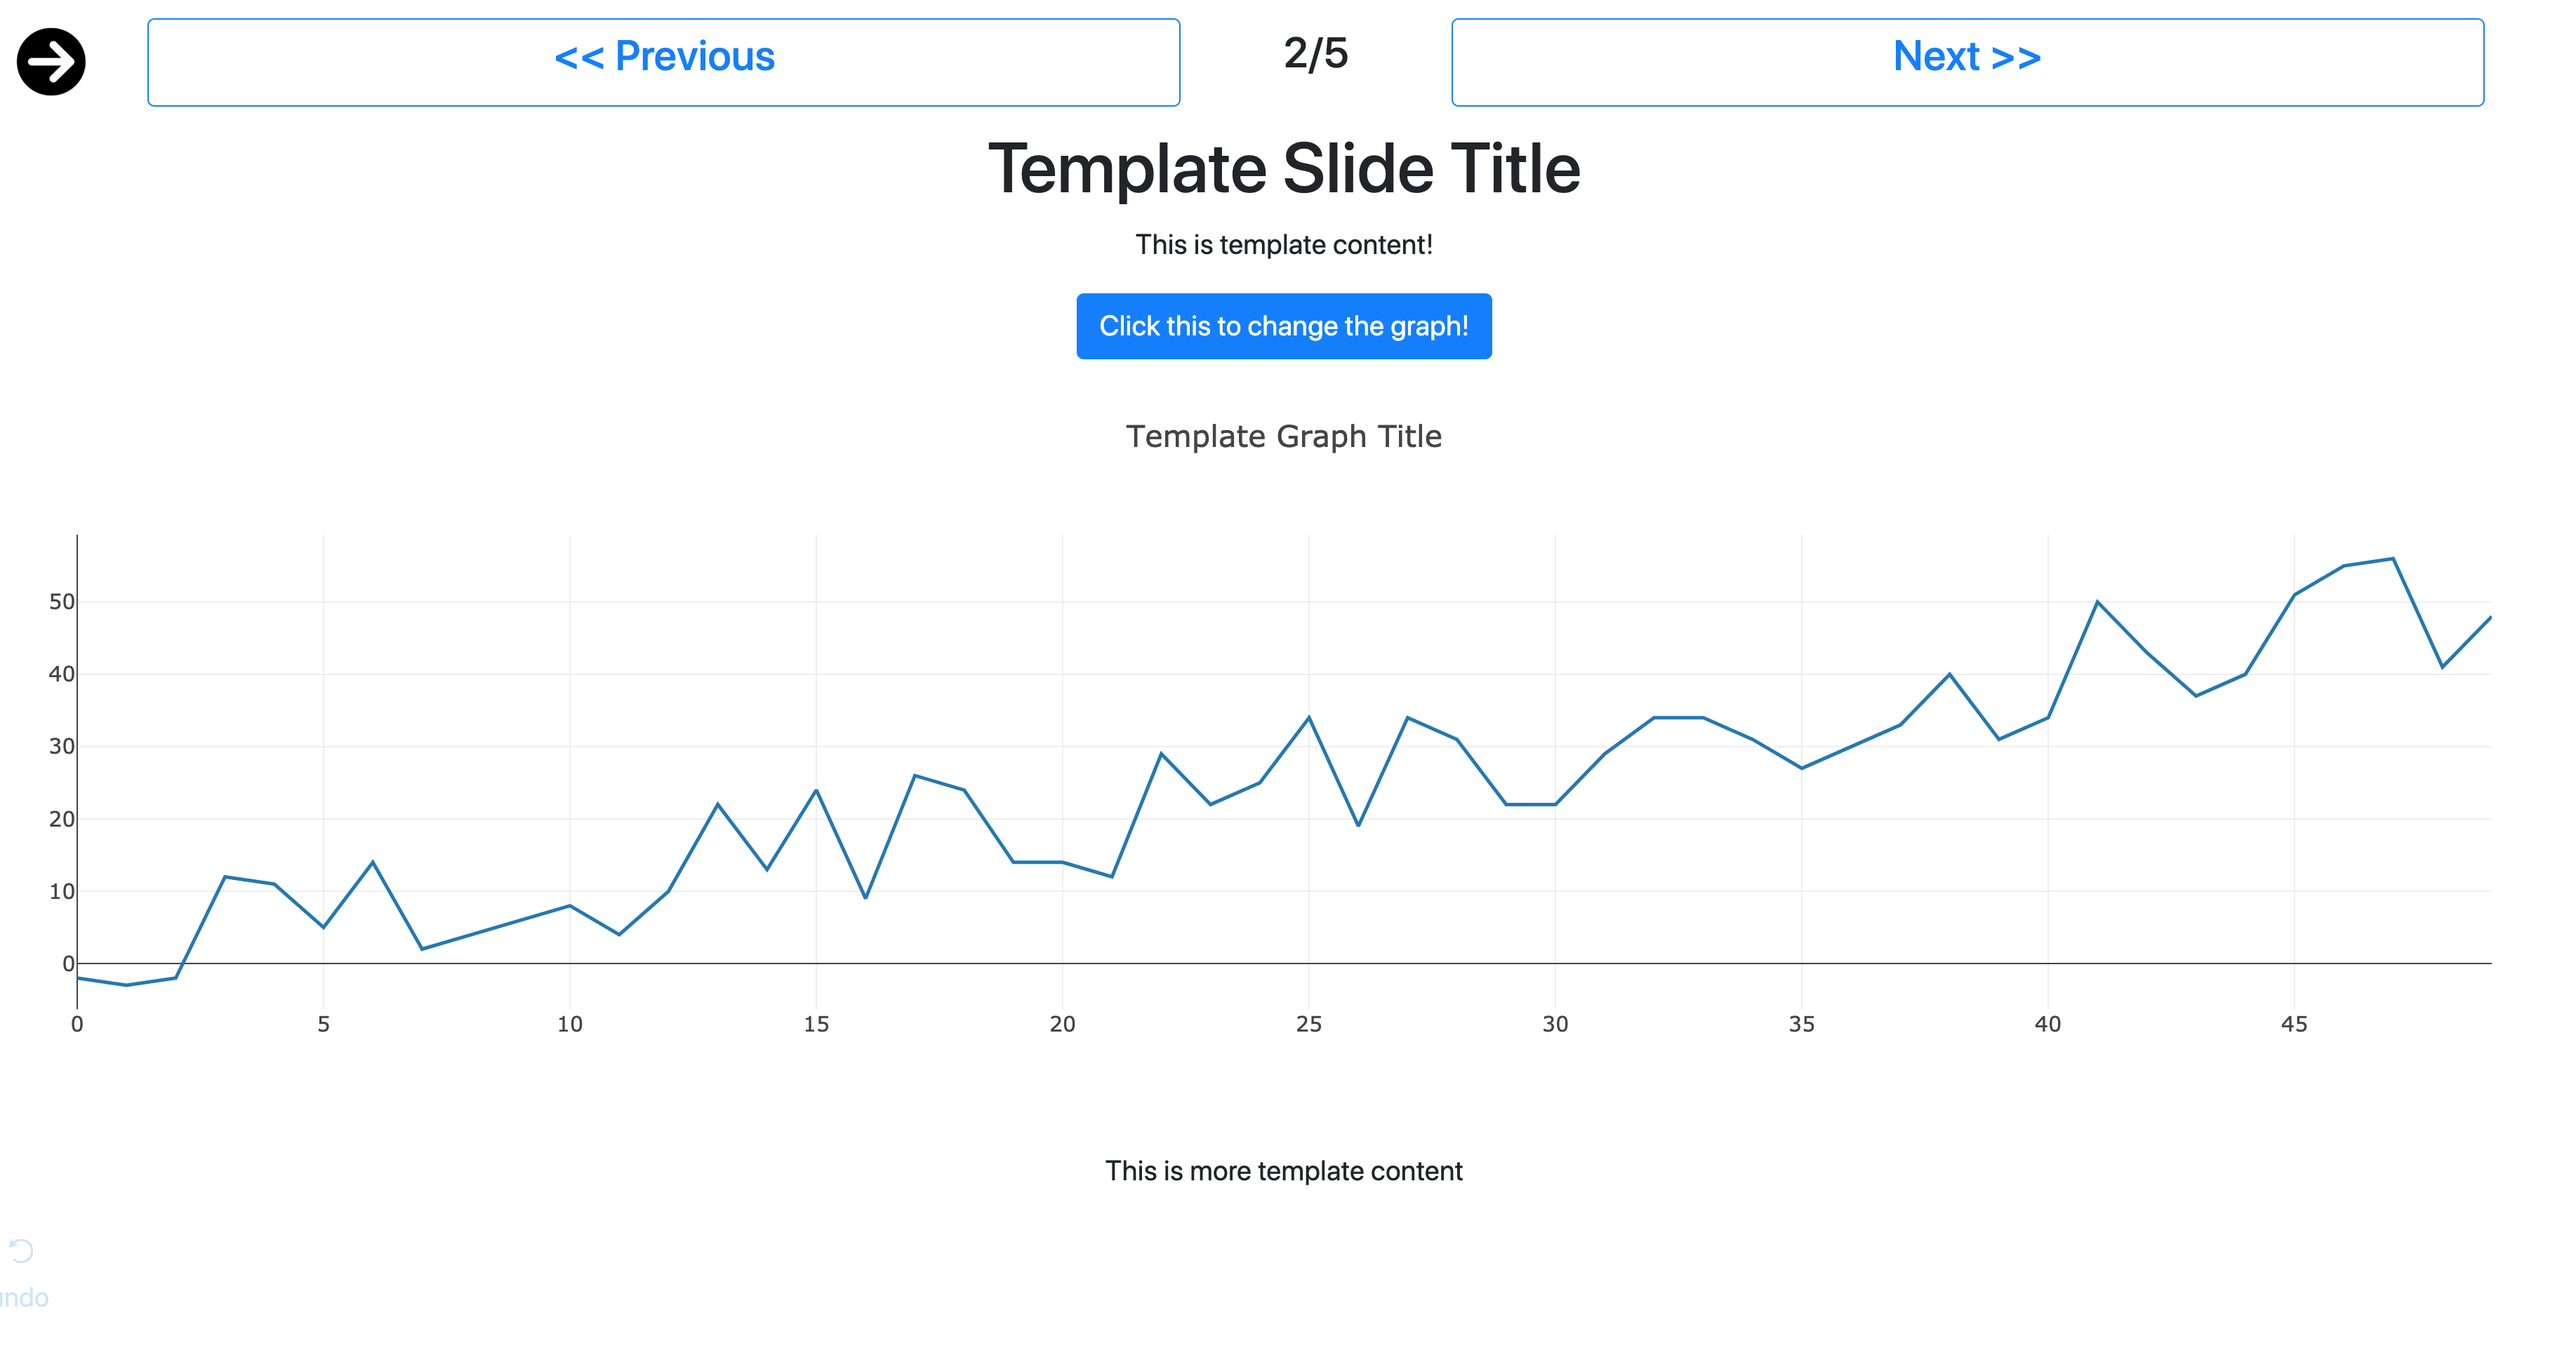
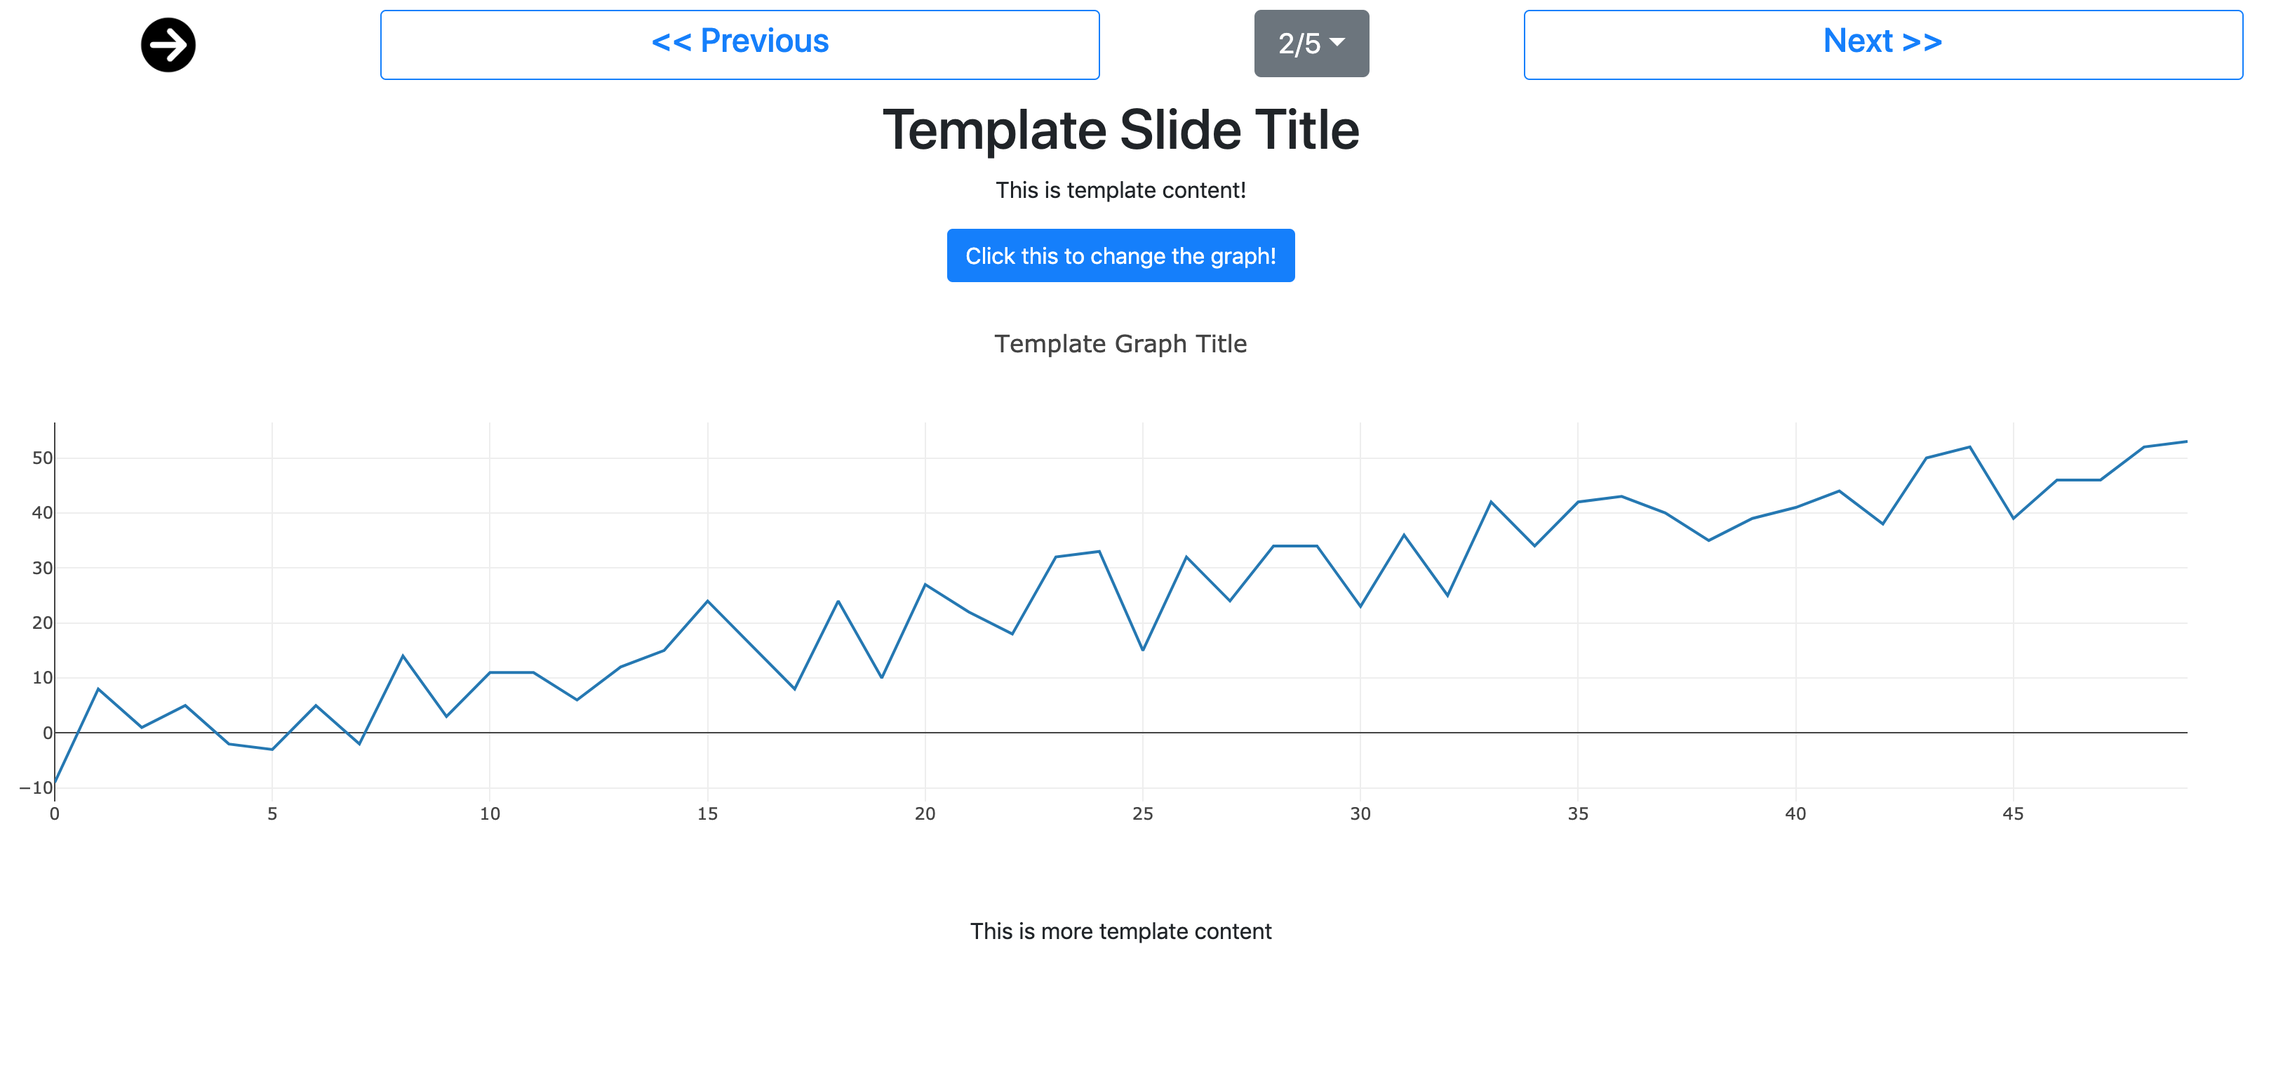
choose a slide feature added

diff --git a/example/index.py b/example/index.py
@@ -44,7 +44,10 @@ def get_logo():
     for i,x in enumerate(split_assets):
         if x=='logo':
             return html.Img(src='assets/'+assets[i],style=dict(height='50px'))
-    return html.Img(height='40px',src='https://github.com/russellromney/dash-slides/assets/raw/logo.png')
+    return html.A(
+        html.Img(height='40px',src='https://github.com/russellromney/dash-slides/assets/raw/logo.png'),
+        href='/'+slide_order[0]
+    )
 
 
 
@@ -58,10 +61,12 @@ app.layout = html.Div([
         # nav div
         dbc.Row(style=dict(height='auto',position='sticky',margin='10px'),children=[
             # logo
-            dbc.Col(width=1,style=nav_style,children=get_logo()),
+            dbc.Col(width=2,style=nav_style,children=[
+                get_logo()
+            ]),
             
             # previous
-            dbc.Col(width=5,style=nav_style,children=[
+            dbc.Col(width=4,style=nav_style,children=[
                 dcc.Link(
                     id='previous-link',
                     href='',
@@ -70,12 +75,22 @@ app.layout = html.Div([
             ]), # end previous
             
             # slide count
-            dbc.Col(width=1,style=nav_style,children=[
-                html.H4(id='slide-count',style=dict(paddingTop='5px'))
+            dbc.Col(width=2,style=nav_style,children=[
+                dbc.DropdownMenu(
+                    id='slide-count',
+                    bs_size='lg',
+                    children = [
+                    dbc.DropdownMenuItem(
+                        s,
+                        href='/'+s,
+                        external_link=True
+                    )
+                    for s in slide_order
+                ])
             ]), # end slide count
             
             # next
-            dbc.Col(width=5,style=nav_style,children=[
+            dbc.Col(width=4,style=nav_style,children=[
                 dcc.Link(
                     id='next-link',
                     href='',
@@ -117,6 +132,8 @@ def change_slide(pathname):
 )
 def navigate(current_slide,pathname):
     '''
+    - listens to
+        - next/previous buttons
     - determines the current slide name
     - changes 'next' and 'previous' to the names of the slides on each side of the current slide
     - if this is the last or first slide, 'next' or 'previous' will just refresh the current slide
@@ -154,7 +171,7 @@ def set_slide_state(pathname):
 
 
 @app.callback(
-    Output('slide-count','children'),
+    Output('slide-count','label'),
     [Input('current-slide','children')]
 )
 def update_slide_count(current_slide):
@@ -172,6 +189,6 @@ if __name__=='__main__':
     app.run_server(
         port=8050,
         host = 'localhost',
-#        debug=True,
+        debug=True,
     )
     

diff --git a/index.py b/index.py
@@ -58,10 +58,12 @@ app.layout = html.Div([
         # nav div
         dbc.Row(style=dict(height='auto',position='sticky',margin='10px'),children=[
             # logo
-            dbc.Col(width=1,style=nav_style,children=get_logo()),
+            dbc.Col(width=2,style=nav_style,children=[
+                get_logo()
+            ]),
             
             # previous
-            dbc.Col(width=5,style=nav_style,children=[
+            dbc.Col(width=4,style=nav_style,children=[
                 dcc.Link(
                     id='previous-link',
                     href='',
@@ -70,12 +72,22 @@ app.layout = html.Div([
             ]), # end previous
             
             # slide count
-            dbc.Col(width=1,style=nav_style,children=[
-                html.H4(id='slide-count',style=dict(paddingTop='5px'))
+            dbc.Col(width=2,style=nav_style,children=[
+                dbc.DropdownMenu(
+                    id='slide-count',
+                    bs_size='lg',
+                    children = [
+                    dbc.DropdownMenuItem(
+                        s,
+                        href='/'+s,
+                        external_link=True
+                    )
+                    for s in slide_order
+                ])
             ]), # end slide count
             
             # next
-            dbc.Col(width=5,style=nav_style,children=[
+            dbc.Col(width=4,style=nav_style,children=[
                 dcc.Link(
                     id='next-link',
                     href='',
@@ -117,6 +129,8 @@ def change_slide(pathname):
 )
 def navigate(current_slide,pathname):
     '''
+    - listens to
+        - next/previous buttons
     - determines the current slide name
     - changes 'next' and 'previous' to the names of the slides on each side of the current slide
     - if this is the last or first slide, 'next' or 'previous' will just refresh the current slide
@@ -154,7 +168,7 @@ def set_slide_state(pathname):
 
 
 @app.callback(
-    Output('slide-count','children'),
+    Output('slide-count','label'),
     [Input('current-slide','children')]
 )
 def update_slide_count(current_slide):

diff --git a/presentation.py b/presentation.py
@@ -9,7 +9,7 @@ slide_order = [
     'template',
 ]
 
-# the thing that appears at the top
+# the text that appears in the tab
 presentation_title = 'Dash Slides'
 
 # the text that appears in the previous and next buttons
